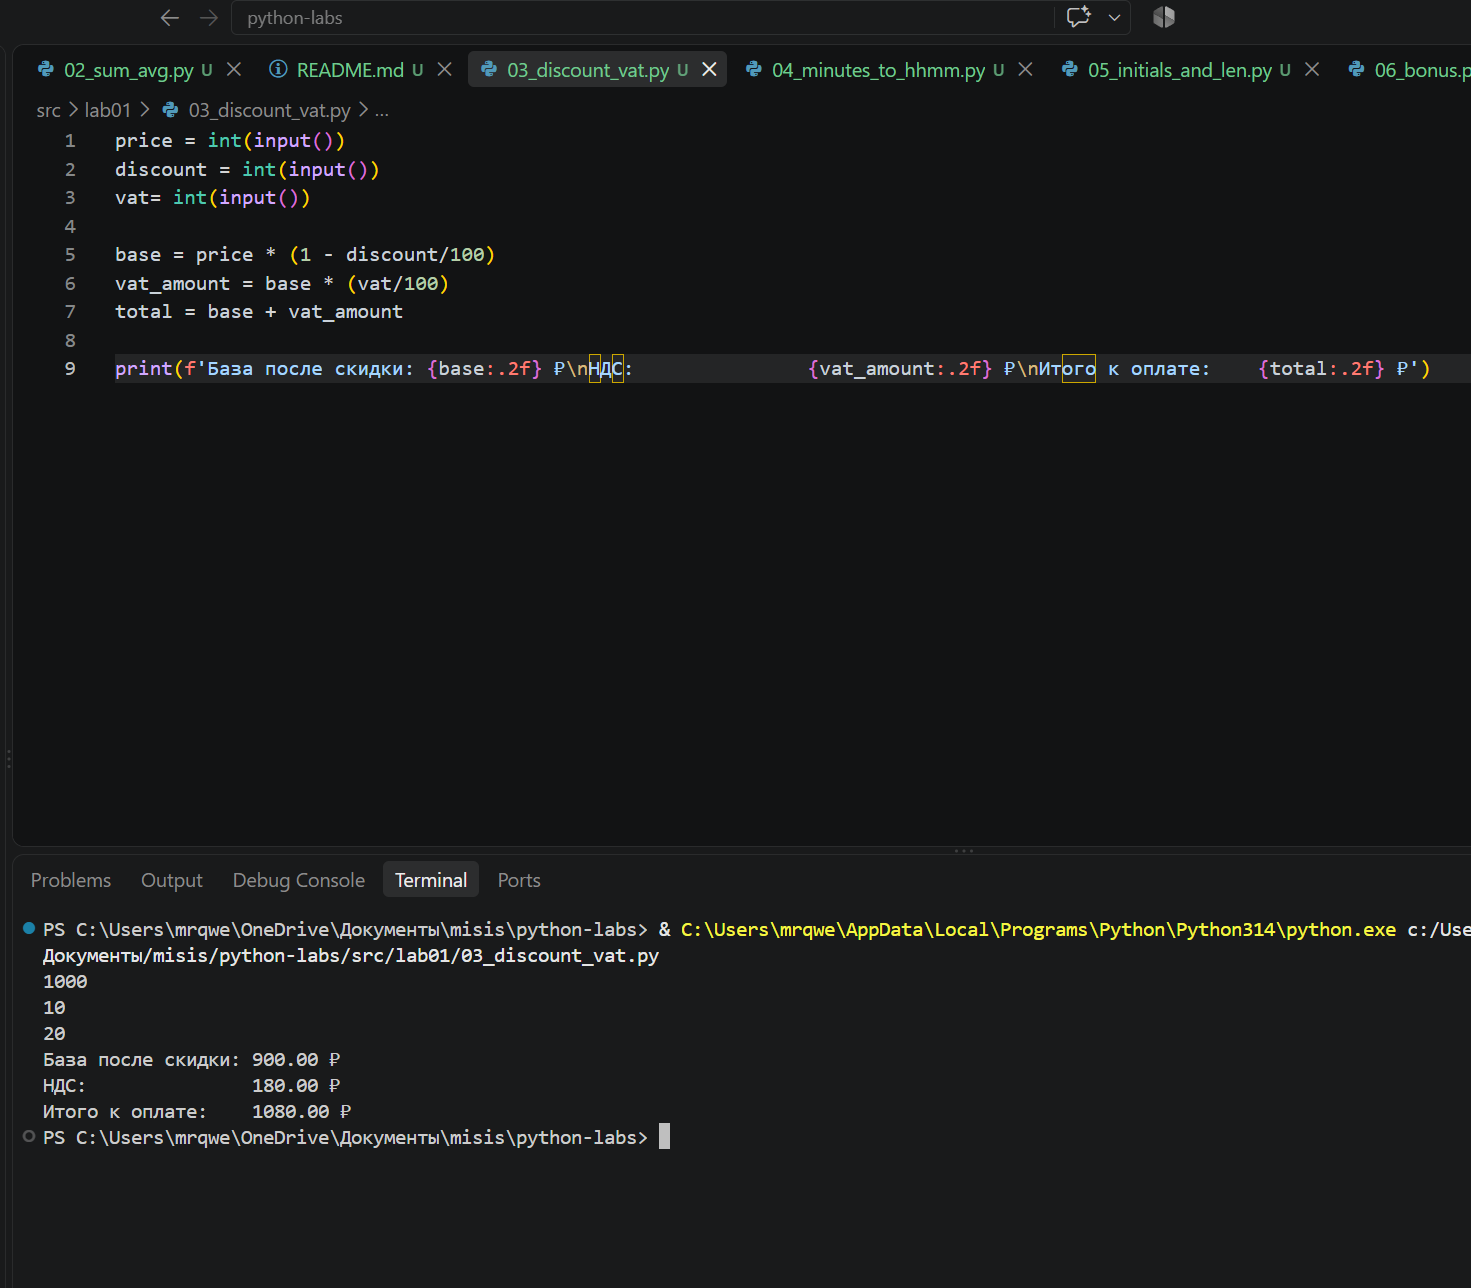
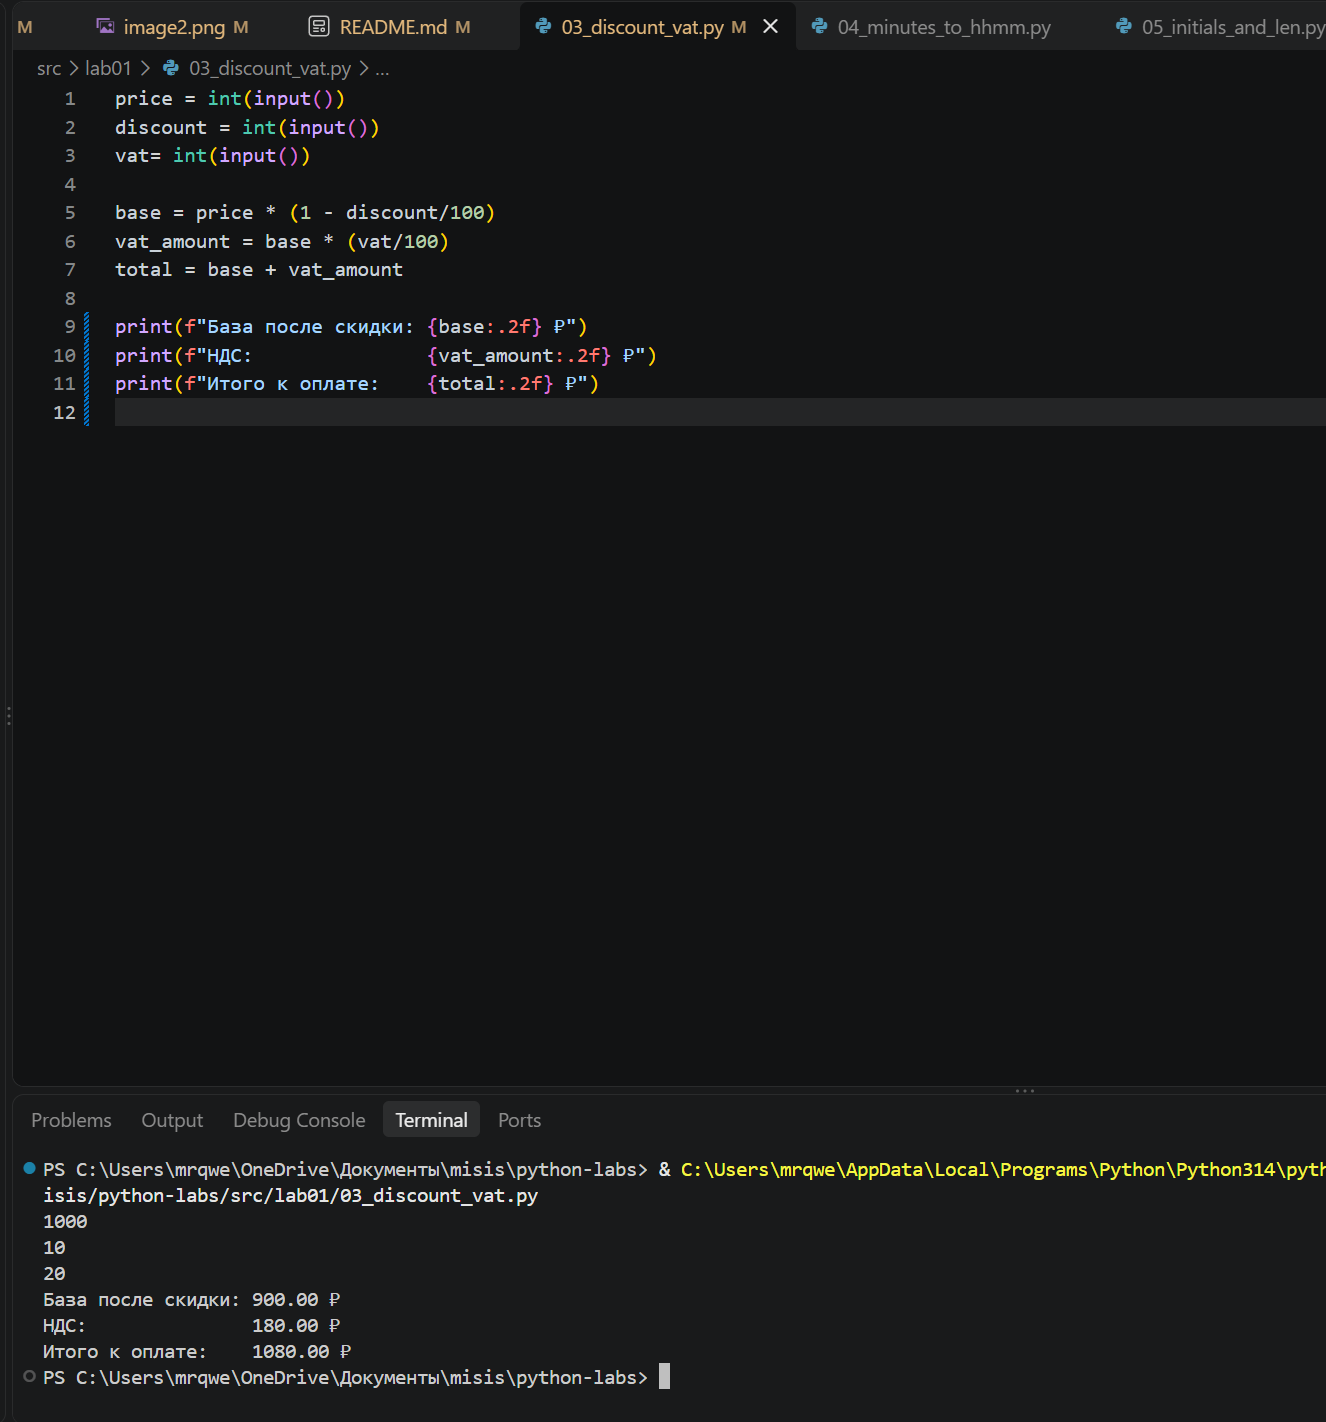
final 1

diff --git a/src/lab01/03_discount_vat.py b/src/lab01/03_discount_vat.py
@@ -6,4 +6,6 @@ base = price * (1 - discount/100)
 vat_amount = base * (vat/100)
 total = base + vat_amount
 
-print(f'База после скидки: {base:.2f} ₽\nНДС:               {vat_amount:.2f} ₽\nИтого к оплате:    {total:.2f} ₽')
+print(f"База после скидки: {base:.2f} ₽")
+print(f"НДС:               {vat_amount:.2f} ₽")
+print(f"Итого к оплате:    {total:.2f} ₽")

diff --git a/src/lab01/02_sum_avg.py b/src/lab01/02_sum_avg.py
@@ -1,4 +1,4 @@
-a = float(input("a: "))
-b = float(input("b: "))
+a = float(input("a: ").replace(",", "."))
+b = float(input("b: ").replace(",", "."))
 
 print(f'sum:{a+b}; avg={(a+b)/2:.2f}')

diff --git a/README.md b/README.md
@@ -12,7 +12,7 @@
 ![alt text](images/lab01/image1.png)
 
 ## Задание 2 — Сумма и среднее
-Вводишь два числа, программа считает сумму и среднее.
+Вводишь два числа, программа считает сумму и среднее(понимает ,).
 
 Здесь через float(input()) принимаем от пользователя два числа и сразу превращаем их в дробные. В конце в одной f-строке складываем их, считаем среднее арифметическое и округляем результат до двух знаков после запятой с помощью :.2f.
 
